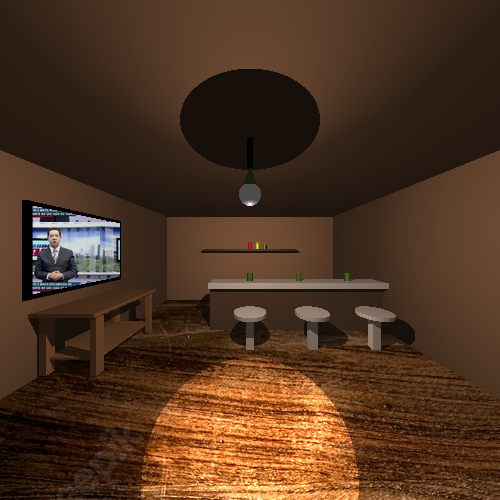
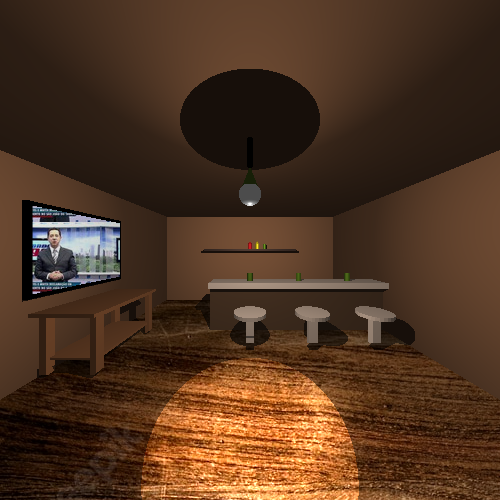
Fixinx cluster, literally

diff --git a/implementation/complex_object.cpp b/implementation/complex_object.cpp
@@ -81,7 +81,7 @@ complex_object::complex_object(std::string name, px k_a, px k_d, px k_s, double 
 std::tuple<double, vp> complex_object::intersection_with_ray(vp O, vp D, double t_min, double t_max)
 {
     // testing interrsection with cluster
-    double t; vp n;
+    double t; vp n; std::tie(t, n) = this->cluster->intersection_with_ray(O, D, t_min, t_max);
     if (t == INF) return {t, n};
     return this->mesh::intersection_with_ray(O, D, t_min, t_max);
 }
